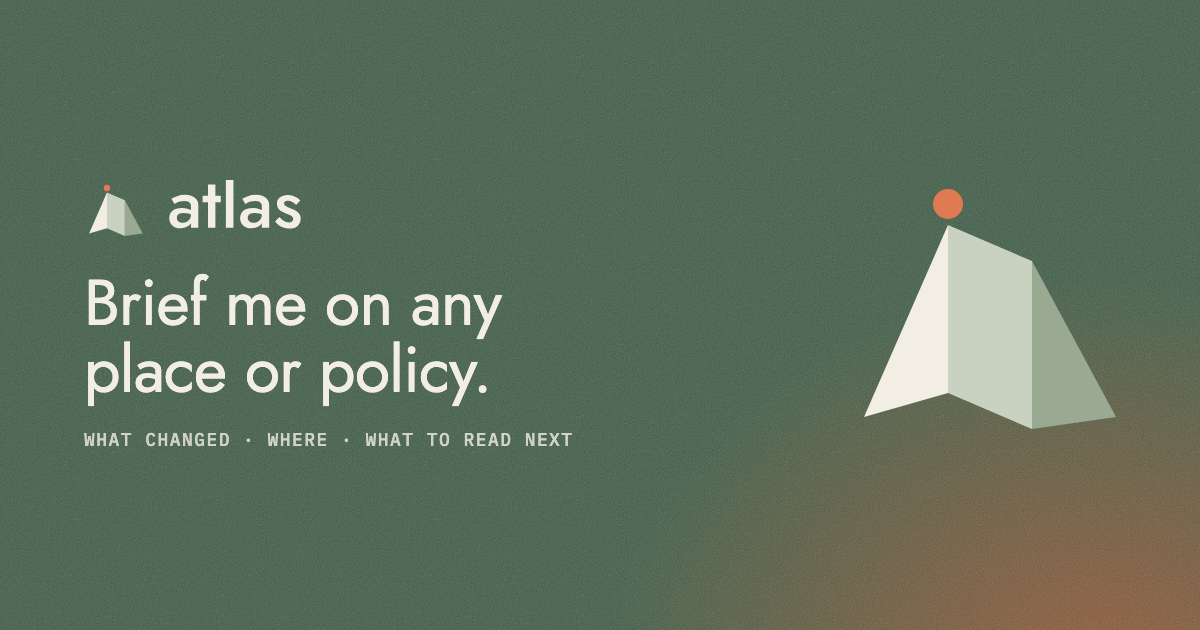
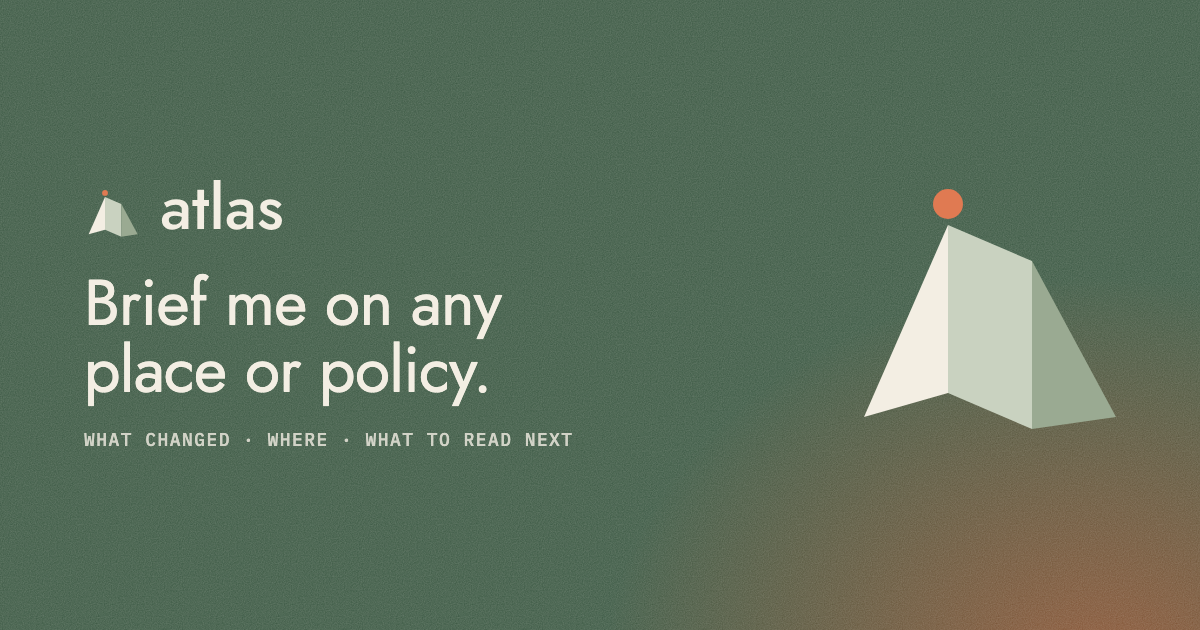
fix(brand): unclip lockup ascender, refresh frontend README, final review polish

Changed region(s): [[0.0617, 0.2714, 0.2467, 0.3921]]

diff --git a/frontend/index.html b/frontend/index.html
@@ -4,6 +4,7 @@
     <meta charset="UTF-8" />
     <link rel="icon" type="image/svg+xml" href="/brand/favicon.svg" />
     <link rel="icon" type="image/png" sizes="32x32" href="/brand/favicon-32.png" />
+    <link rel="icon" type="image/png" sizes="16x16" href="/brand/favicon-16.png" />
     <link rel="apple-touch-icon" href="/brand/apple-touch-icon.png" />
     <meta name="viewport" content="width=device-width, initial-scale=1.0" />
     <meta name="description" content="Atlas turns global news into a briefing: what changed, where it happened, and what to read next." />
@@ -17,6 +18,7 @@
     <meta property="og:image" content="https://atlasbrief-nine.vercel.app/brand/og-card.png" />
     <meta property="og:image:width" content="1200" />
     <meta property="og:image:height" content="630" />
+    <meta property="og:image:alt" content="The Atlas logo, a folded map, beside the line: Brief me on any place or policy." />
     <meta name="twitter:card" content="summary_large_image" />
     <link rel="preconnect" href="https://fonts.googleapis.com" />
     <link rel="preconnect" href="https://fonts.gstatic.com" crossorigin />

diff --git a/frontend/src/routes/home.css b/frontend/src/routes/home.css
@@ -25,7 +25,7 @@
 @keyframes rot-in { from { opacity: 0; transform: translateY(0.45em); filter: blur(10px); } to { opacity: 1; transform: none; filter: blur(0); } }
 @keyframes rot-out { to { opacity: 0; transform: translateY(-0.35em); filter: blur(8px); } }
 .home-lede { max-width: 34em; font-size: 1.12rem; color: var(--ink-2); text-wrap: pretty; }
-.home-lede em { color: var(--ink); }
+.home-lede em { color: var(--ink); font-style: normal; }
 .home-ask { display: grid; gap: 12px; }
 .chips { display: flex; flex-wrap: wrap; gap: 8px; }
 .chip {

diff --git a/frontend/src/styles/base.css b/frontend/src/styles/base.css
@@ -62,7 +62,7 @@ input, select, textarea { font: inherit; color: inherit; }
   border-radius: 4px;
 }
 
-::selection { background: rgba(181, 83, 46, 0.22); color: var(--ink); }
+::selection { background: rgba(61, 90, 69, 0.2); color: var(--ink); }
 
 .wrap {
   width: 100%;

diff --git a/frontend/src/components/navbar.css b/frontend/src/components/navbar.css
@@ -6,7 +6,7 @@
   gap: 0.28em;
   font-family: var(--font-display);
   font-weight: 500;
-  font-size: 1.5rem;
+  font-size: 1.625rem;
   line-height: 1;
   letter-spacing: -0.01em;
   color: var(--moss);

diff --git a/frontend/scripts/brand/outline_wordmark.py b/frontend/scripts/brand/outline_wordmark.py
@@ -8,12 +8,18 @@ import io
 import pathlib
 import urllib.request
 
+from fontTools.pens.boundsPen import BoundsPen
 from fontTools.pens.svgPathPen import SVGPathPen
 from fontTools.pens.transformPen import TransformPen
 from fontTools.ttLib import TTFont
 from fontTools.varLib.instancer import instantiateVariableFont
 
-JOST_URL = "https://github.com/google/fonts/raw/main/ofl/jost/Jost%5Bwght%5D.ttf"
+# Pinned to the commit that last touched Jost[wght].ttf, so the outline never
+# shifts under us if google/fonts updates the family on main.
+JOST_URL = (
+    "https://github.com/google/fonts/raw/"
+    "91b26e2e0231f5aa85f5470a7b23d6d732ab15fc/ofl/jost/Jost%5Bwght%5D.ttf"
+)
 OUT = pathlib.Path(__file__).resolve().parents[2] / "public" / "brand"
 MARK = {
     False: ("#6F8A6F", "#3D5A45", "#2A3F31", "#B5532E", "#3D5A45"),
@@ -22,17 +28,25 @@ MARK = {
 FONT_SIZE = 100  # lockup units: mark height 0.92em = 92, gap 0.28em = 28
 
 
-def word_path(font: TTFont, text: str, size: float, x0: float, baseline: float) -> tuple[str, float]:
+def word_path(
+    font: TTFont, text: str, size: float, x0: float, baseline: float
+) -> tuple[str, float, float]:
     scale = size / font["head"].unitsPerEm
     glyphs = font.getGlyphSet()
     cmap = font.getBestCmap()
     pen = SVGPathPen(glyphs)
     x = x0
+    min_y = 0.0
     for ch in text:
         name = cmap[ord(ch)]
-        glyphs[name].draw(TransformPen(pen, (scale, 0, 0, -scale, x, baseline)))
+        transform = (scale, 0, 0, -scale, x, baseline)
+        glyphs[name].draw(TransformPen(pen, transform))
+        bounds_pen = BoundsPen(glyphs)
+        glyphs[name].draw(TransformPen(bounds_pen, transform))
+        if bounds_pen.bounds is not None:
+            min_y = min(min_y, bounds_pen.bounds[1])
         x += font["hmtx"][name][0] * scale
-    return pen.getCommands(), x
+    return pen.getCommands(), x, min_y
 
 
 def main() -> None:
@@ -42,19 +56,21 @@ def main() -> None:
     xh = font["OS/2"].sxHeight / font["head"].unitsPerEm * FONT_SIZE
     mark_h = 0.92 * FONT_SIZE
     baseline = mark_h / 2 + xh / 2  # x-height centred on the mark
-    d, end = word_path(font, "atlas", FONT_SIZE, mark_h + 0.28 * FONT_SIZE, baseline)
+    d, end, min_y = word_path(font, "atlas", FONT_SIZE, mark_h + 0.28 * FONT_SIZE, baseline)
     width = end + 2
+    top = min(0.0, min_y)
+    height = mark_h - top
     for reversed_, suffix in ((False, ""), (True, "-reversed")):
         l, c, r, f, text = MARK[reversed_]
         k = mark_h / 100
         svg = (
-            f'<svg xmlns="http://www.w3.org/2000/svg" viewBox="0 0 {width:.1f} {mark_h:.1f}"><title>Atlas</title>'
+            f'<svg xmlns="http://www.w3.org/2000/svg" viewBox="0 {top:.1f} {width:.1f} {height:.1f}"><title>Atlas</title>'
             f'<g transform="scale({k:.4f})"><path d="M8 84 L36 20 L36 76Z" fill="{l}"/>'
             f'<path d="M36 20 L64 32 L64 88 L36 76Z" fill="{c}"/><path d="M64 32 L92 84 L64 88Z" fill="{r}"/>'
             f'<circle cx="36" cy="13" r="5" fill="{f}"/></g><path d="{d}" fill="{text}"/></svg>'
         )
         (OUT / f"atlas-lockup{suffix}.svg").write_text(svg)
-    print(f"wrote lockups ({width:.0f}x{mark_h:.0f}); cap height {cap:.1f}")
+    print(f"wrote lockups ({width:.0f}x{height:.0f}, top {top:.1f}); cap height {cap:.1f}")
 
 
 if __name__ == "__main__":

diff --git a/frontend/README.md b/frontend/README.md
@@ -1,11 +1,12 @@
 # Atlas — frontend
 
 Vite + React + TypeScript SPA. Design system: **Oat**, a warm paper surface
-(oat, oat-deep, paper) with ink text and a terracotta accent for high-severity
-items, moss and sand for the globe and secondary marks. Type is Hanken
-Grotesk for UI text, Fraunces (italic) for display and pull quotes, and IBM
-Plex Mono for data and labels, all loaded from Google Fonts. Light-only;
-print styles force ink-on-paper.
+(oat, oat-deep, paper) with ink text and moss as the primary colour (logo,
+primary buttons, links, timeline, data), with terracotta reserved for
+signals — globe hotspots, high-priority alerts, focus rings and the logo
+dot. Type is Jost for headings, Hanken Grotesk for body text, and IBM Plex
+Mono for labels and data, all loaded from Google Fonts. Light-only; print
+styles force ink-on-paper.
 
 ## Dev
 
